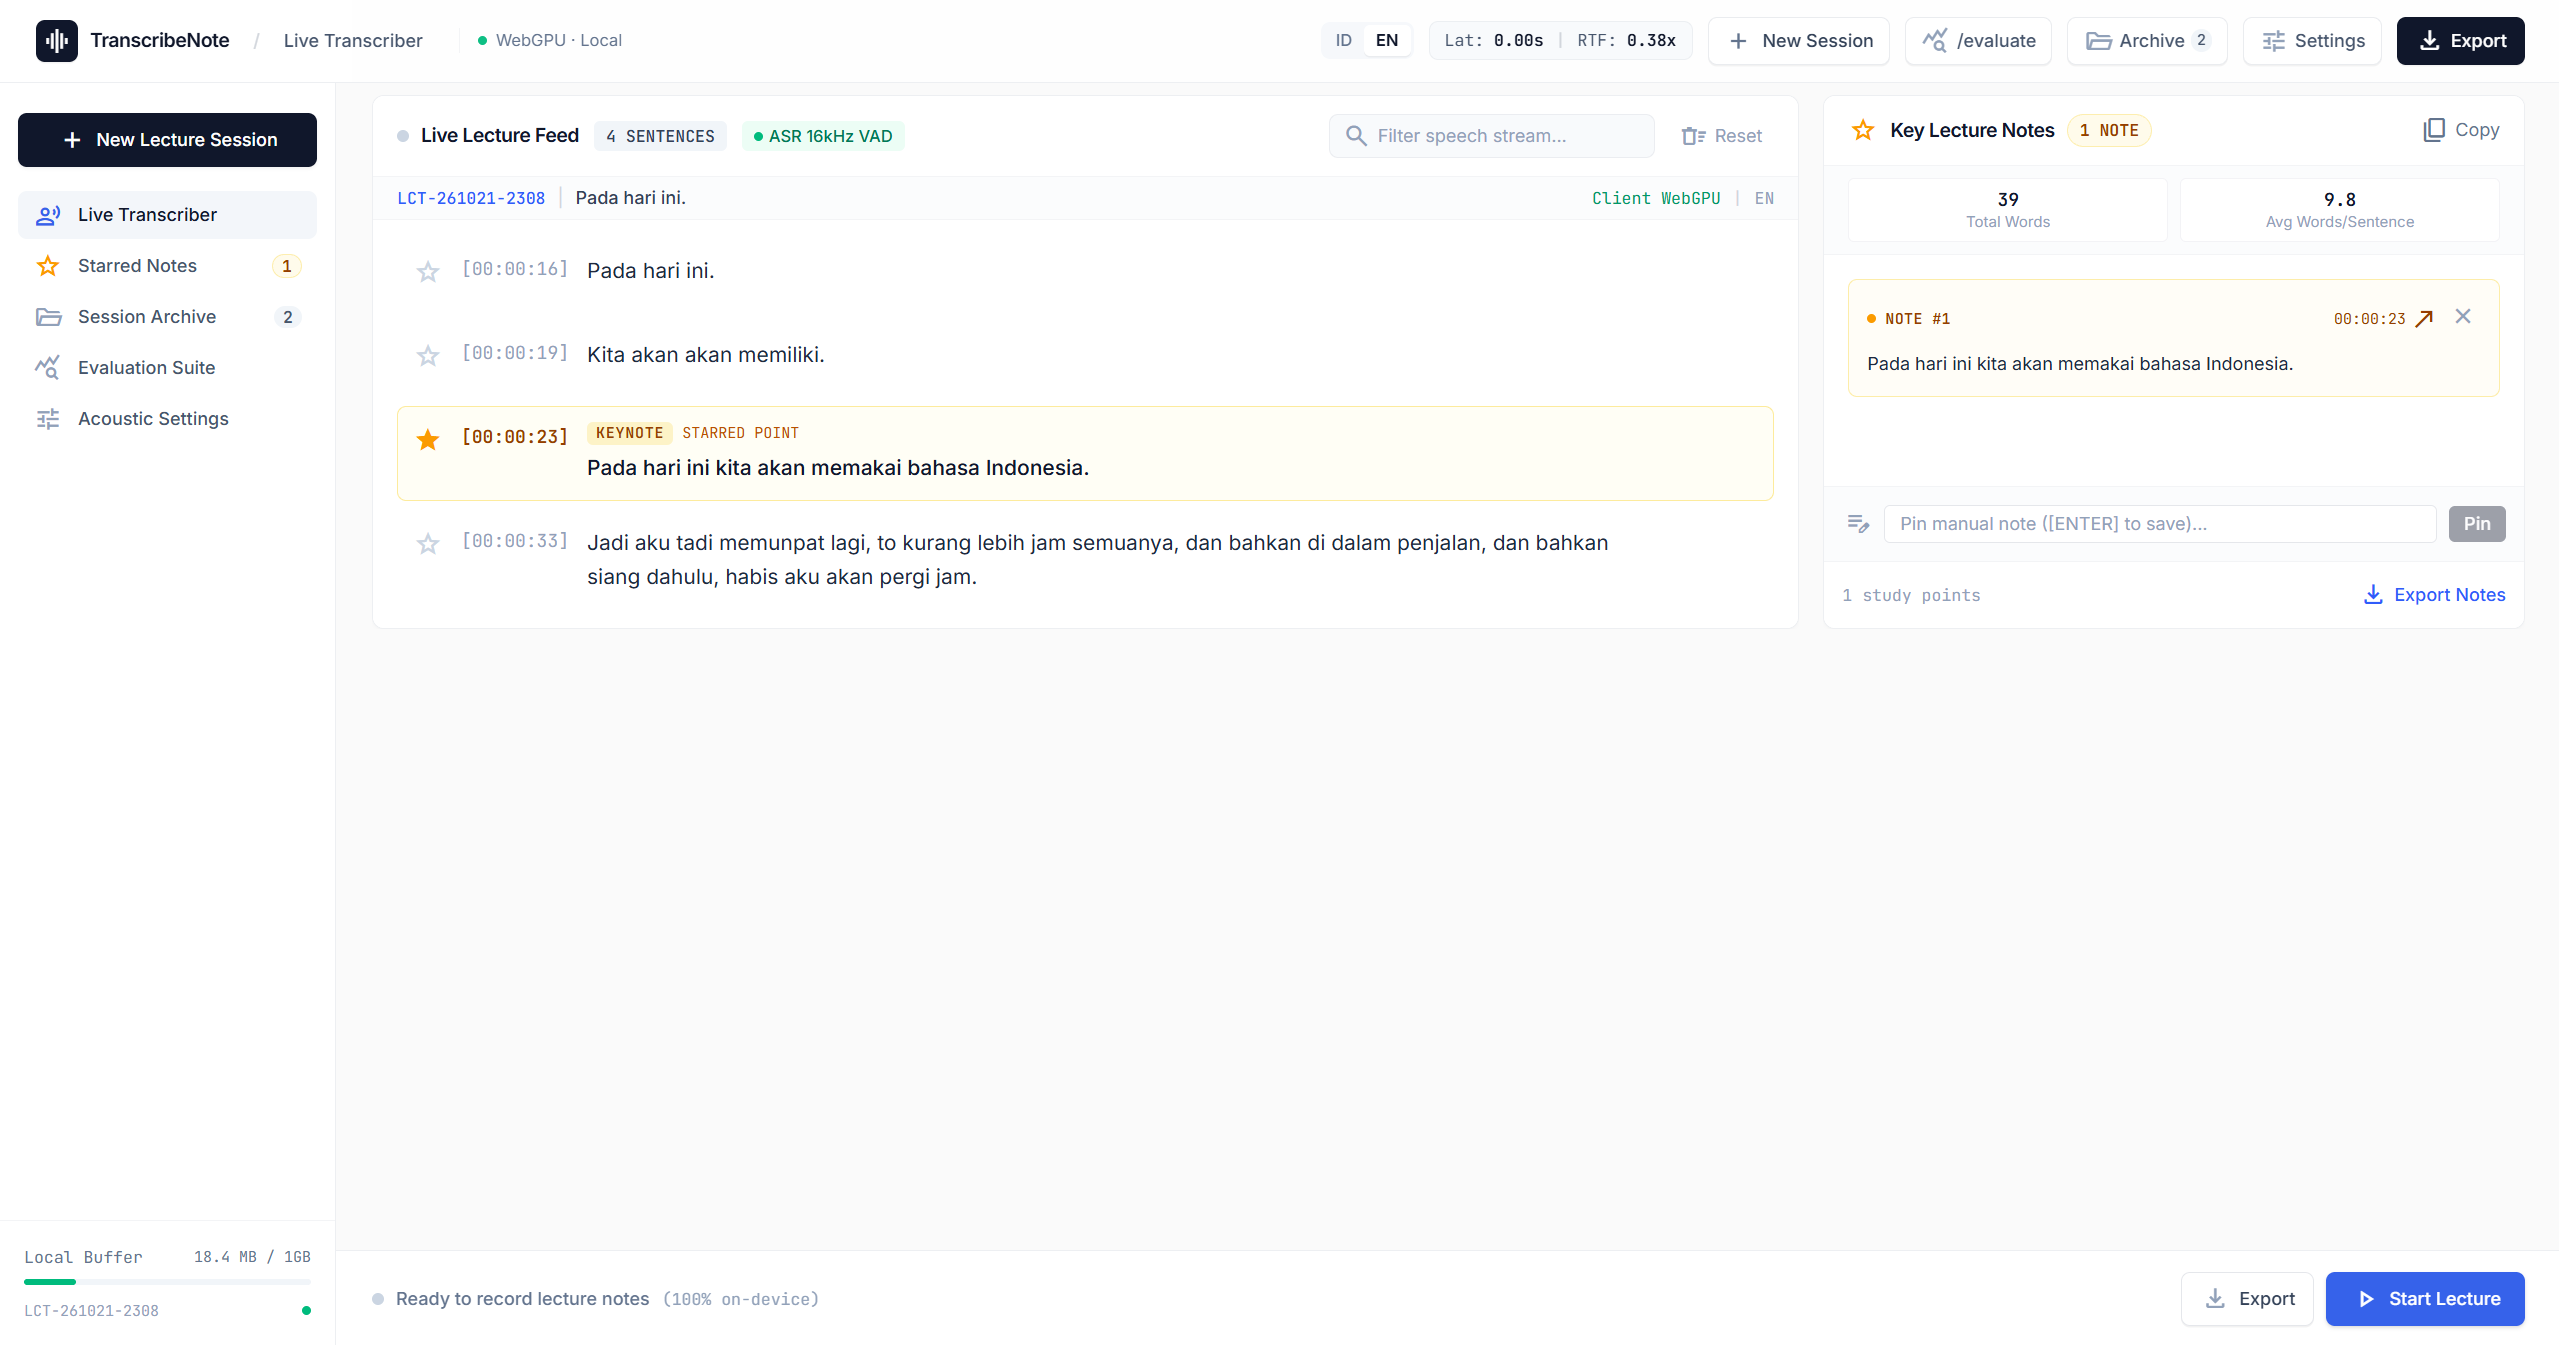
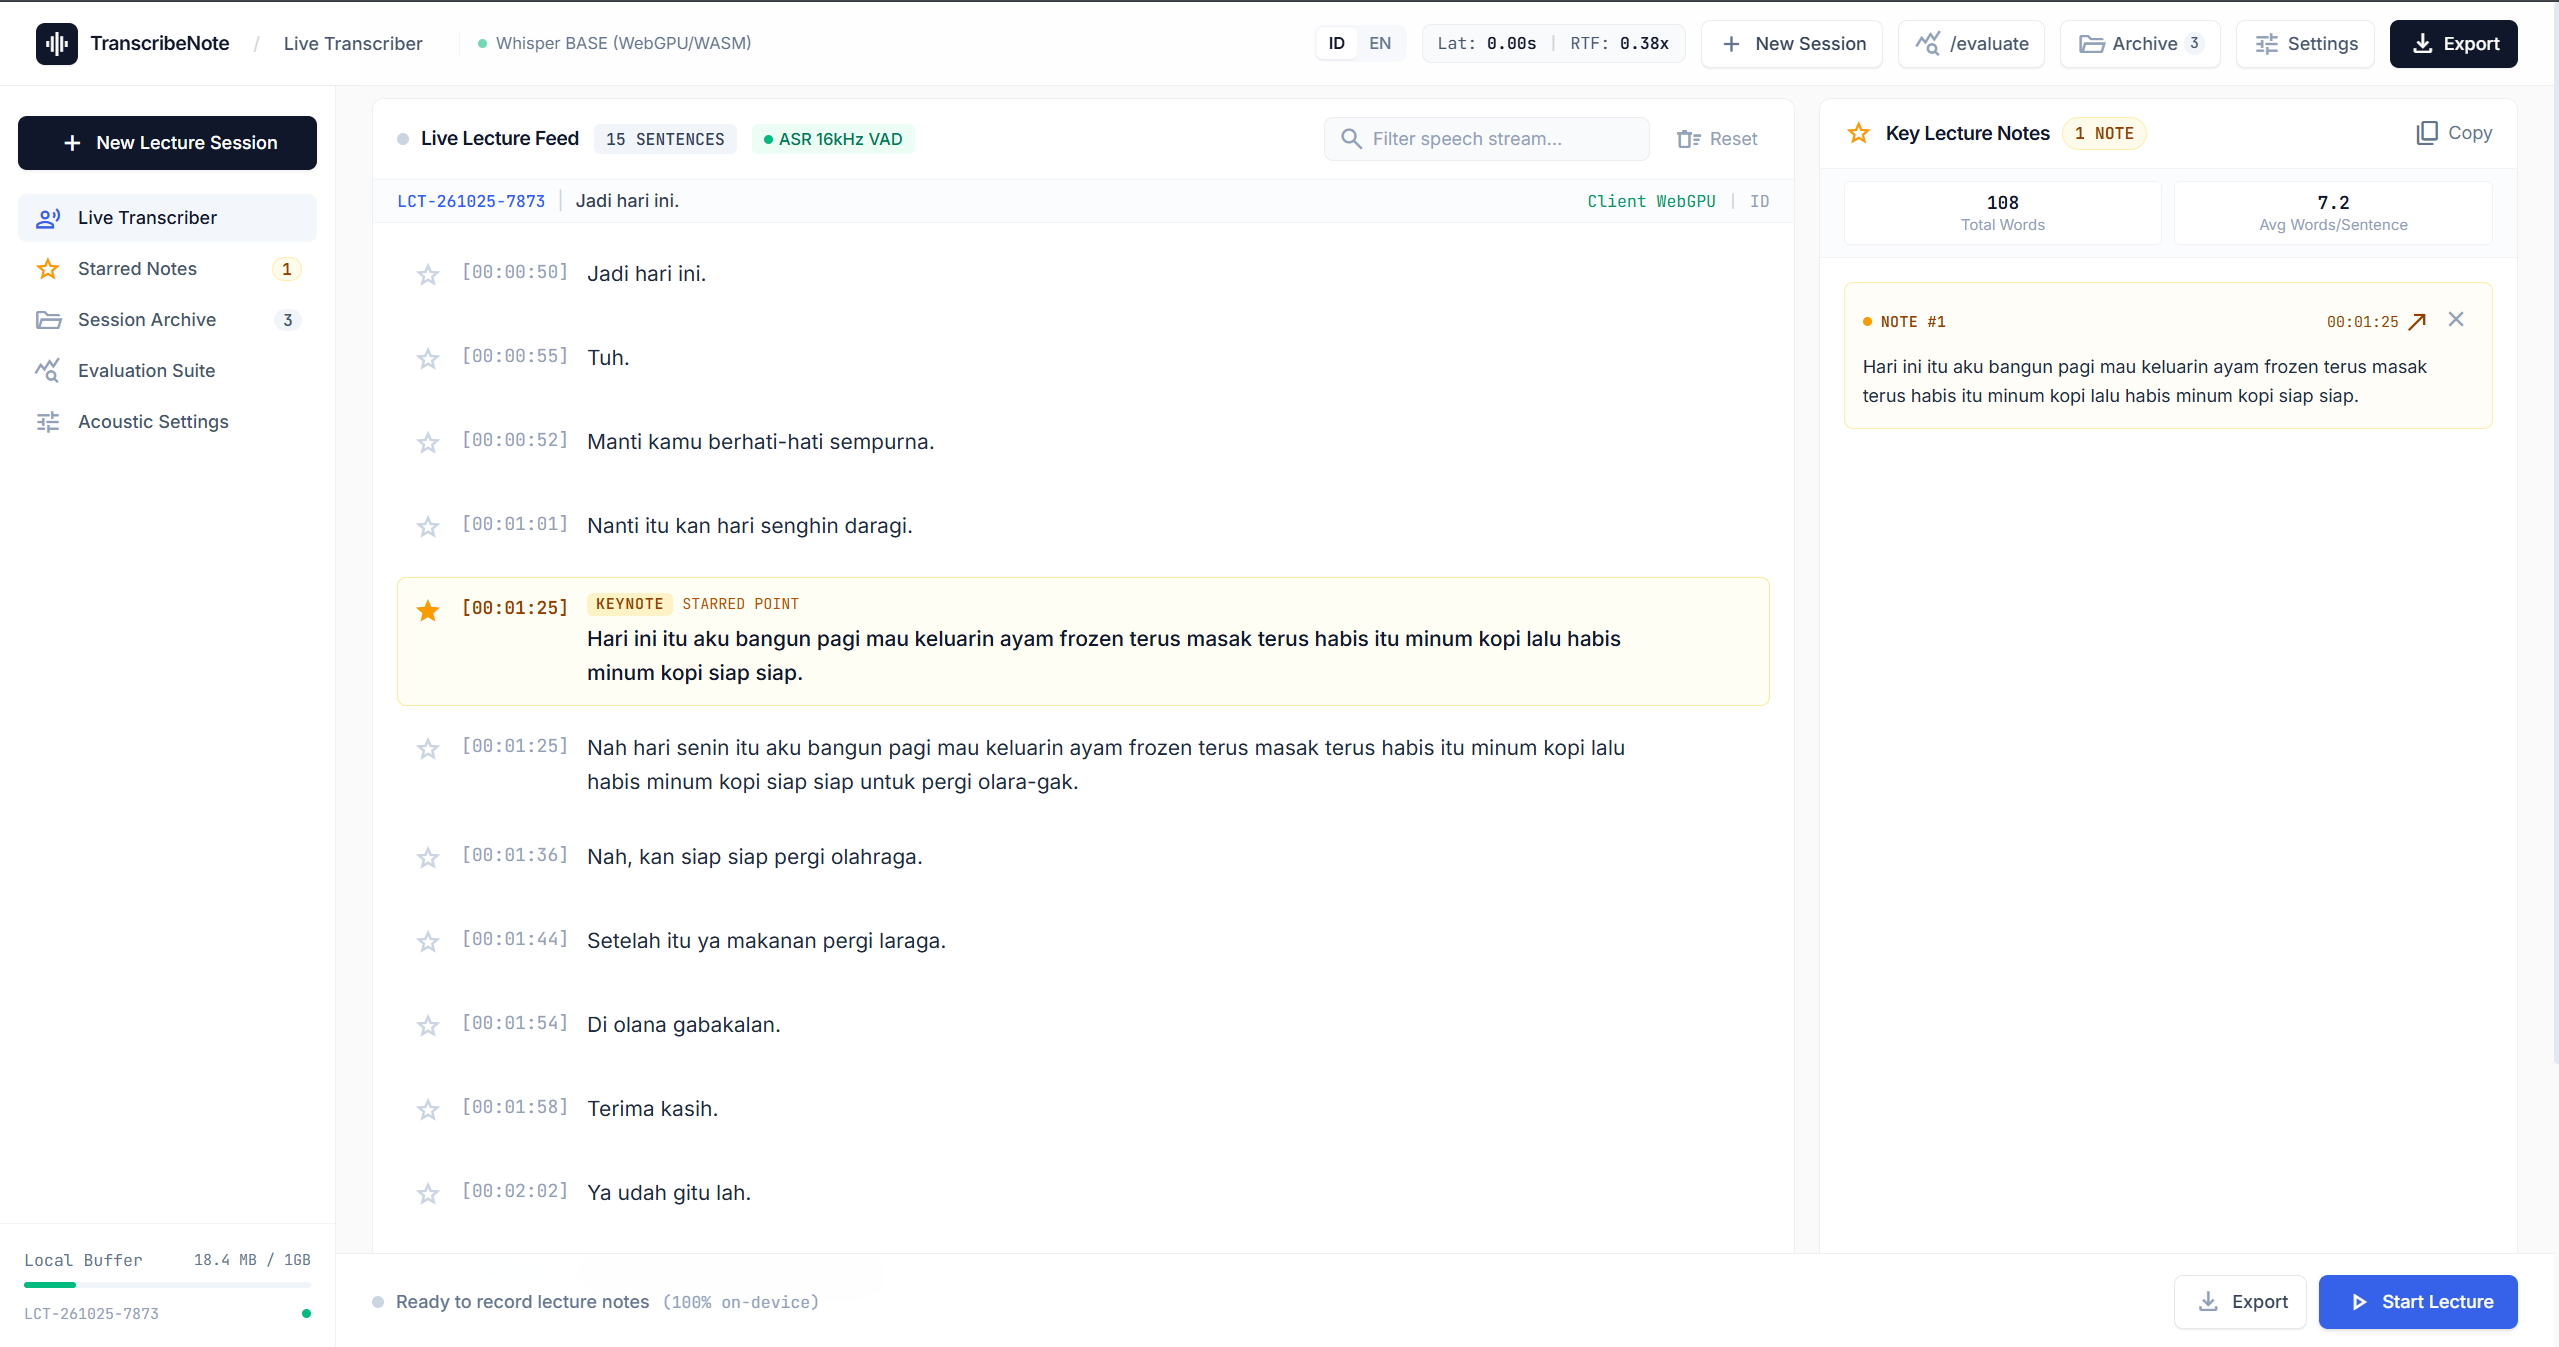
feat: update transcribenote image, remove direct project links, unlink esp32, remove license/footer copyright

diff --git a/src/Portfolio.jsx b/src/Portfolio.jsx
@@ -143,12 +143,6 @@ const SKILL_GROUPS = [
     icon: BrainCircuit,
     path: "~/stack/ai-dl-signal",
     title: "AI, Deep Learning & Signal Processing",
-    targetProject: "project-gesture-hud",
-    targetProjectTitle: "Gesture HUD & TranscribeNote",
-    projectLinks: [
-      { id: "project-gesture-hud", label: "Touchless Gesture HUD (TCN / ONNX)" },
-      { id: "project-transcribenote", label: "TranscribeNote (Whisper / VAD)" },
-    ],
     items: [
       { name: "PyTorch", detail: "TCN, BiLSTM, ST-GCN", target: "project-gesture-hud" },
       { name: "ONNX Runtime", detail: "CPU / Web", target: "project-gesture-hud" },
@@ -168,11 +162,6 @@ const SKILL_GROUPS = [
     icon: Server,
     path: "~/stack/web-backend",
     title: "Web & Backend Engineering",
-    targetProject: "project-transcribenote",
-    targetProjectTitle: "TranscribeNote Web App",
-    projectLinks: [
-      { id: "project-transcribenote", label: "TranscribeNote (WebGPU, FastAPI, React 19)" },
-    ],
     items: [
       { name: "Python", detail: "FastAPI, Flask, Streamlit", target: "project-gesture-hud" },
       { name: "TypeScript / React 19", target: "project-transcribenote" },
@@ -188,19 +177,13 @@ const SKILL_GROUPS = [
     icon: Wrench,
     path: "~/stack/devops-hw",
     title: "DevOps & Hardware",
-    targetProject: "project-stock-intel",
-    targetProjectTitle: "IDX Stock Intelligence",
-    projectLinks: [
-      { id: "project-stock-intel", label: "IDX Multi-Agent (GitHub Actions Crons)" },
-      { id: "project-gesture-hud", label: "Gesture HUD (Pytest Benchmarks)" },
-    ],
     items: [
       { name: "GitHub Actions", detail: "CI/CD & Serverless Crons", target: "project-stock-intel" },
       { name: "Pytest", target: "project-gesture-hud" },
       { name: "Vitest", target: "project-transcribenote" },
       { name: "Vercel", target: "project-transcribenote" },
       { name: "Git", target: "project-stock-intel" },
-      { name: "ESP32 / Arduino", detail: "I2S, MQTT", target: "project-gesture-hud" },
+      { name: "ESP32 / Arduino", detail: "I2S, MQTT" },
     ],
   },
 ];
@@ -239,7 +222,7 @@ const PROJECTS = [
         caption: "100% on-device speech transcription feed with 1-click keynote extraction",
       },
     ],
-    frameClass: "aspect-[1024/520]",
+    frameClass: "aspect-[2559/1347]",
     imgClass: "object-cover object-top",
   },
   {
@@ -1171,17 +1154,27 @@ function Projects({ onOpenLightbox }) {
  * ============================================================ */
 
 function SkillPill({ name, detail, target }) {
+  if (!target) {
+    return (
+      <span className="inline-flex items-center gap-2 rounded-full bg-[#f5f5f7] px-3.5 py-1.5 text-[13px] text-[#1d1d1f] border border-black/[0.04] cursor-default select-none">
+        <span className="h-1.5 w-1.5 rounded-full bg-[#7a7a7a] shrink-0" />
+        <span className="font-medium">{name}</span>
+        {detail && <span className="font-mono text-[11px] text-[#7a7a7a]">{detail}</span>}
+      </span>
+    );
+  }
+
   return (
     <button
       type="button"
-      onClick={() => target && scrollToSection(target)}
-      title={target ? `Jump to project implementing ${name}` : undefined}
+      onClick={() => scrollToSection(target)}
+      title={`Jump to project implementing ${name}`}
       className="group inline-flex items-center gap-2 rounded-full bg-[#f5f5f7] px-3.5 py-1.5 text-[13px] text-[#1d1d1f] transition-all duration-150 hover:bg-[#0066cc] hover:text-white active:scale-95 text-left border border-black/[0.04]"
     >
       <span className="h-1.5 w-1.5 rounded-full bg-[#0066cc] transition-colors group-hover:bg-white shrink-0" />
       <span className="font-medium">{name}</span>
       {detail && <span className="font-mono text-[11px] text-[#7a7a7a] group-hover:text-white/80">{detail}</span>}
-      {target && <ArrowUpRight className="h-3 w-3 text-[#7a7a7a] opacity-0 group-hover:opacity-100 group-hover:text-white transition-opacity" />}
+      <ArrowUpRight className="h-3 w-3 text-[#7a7a7a] opacity-0 group-hover:opacity-100 group-hover:text-white transition-opacity" />
     </button>
   );
 }
@@ -1200,12 +1193,12 @@ function Stack() {
             </h2>
           </div>
           <p className="max-w-[440px] text-[15px] leading-[1.5] text-[#7a7a7a]">
-            Click any skill or use the project jump links to inspect where each technology is implemented in real code.
+            Click any skill to directly scroll and inspect where each technology is implemented in real code.
           </p>
         </div>
 
         <div className="mt-12 grid gap-6 lg:grid-cols-3">
-          {SKILL_GROUPS.map(({ id, icon: Icon, path, title, items, projectLinks }) => (
+          {SKILL_GROUPS.map(({ id, icon: Icon, path, title, items }) => (
             <article
               key={id}
               id={`stack-${id}`}
@@ -1227,26 +1220,6 @@ function Stack() {
                     </li>
                   ))}
                 </ul>
-              </div>
-
-              {/* Direct Project Jump Links */}
-              <div className="mt-8 pt-5 border-t border-[#f0f0f0]">
-                <p className="font-mono text-[10.5px] uppercase tracking-wider text-[#7a7a7a] mb-2 font-semibold">
-                  Direct Project Links:
-                </p>
-                <div className="flex flex-col gap-1.5">
-                  {projectLinks.map((pl) => (
-                    <button
-                      key={pl.id}
-                      type="button"
-                      onClick={() => scrollToSection(pl.id)}
-                      className="inline-flex items-center justify-between w-full rounded-lg bg-[#f5f5f7] hover:bg-[#0066cc] hover:text-white px-3.5 py-2 text-[13px] font-medium text-[#1d1d1f] transition-all group/btn"
-                    >
-                      <span className="truncate">{pl.label}</span>
-                      <ArrowRight className="h-3.5 w-3.5 shrink-0 transition-transform group-hover/btn:translate-x-1" />
-                    </button>
-                  ))}
-                </div>
               </div>
             </article>
           ))}
@@ -1437,12 +1410,11 @@ function Footer() {
           </div>
         </div>
 
-        <div className="flex flex-col gap-4 pt-6 text-[12px] text-[#7a7a7a] sm:flex-row sm:items-center sm:justify-between">
-          <p>© {year} Gracias Kumara Winata. Apple Pro Editorial Architecture.</p>
+        <div className="flex items-center justify-end pt-6">
           <a
             id="footer-back-to-top"
             href="#top"
-            className="font-mono inline-flex items-center gap-1.5 text-[11px] uppercase tracking-[0.14em] font-medium transition-colors hover:text-[#0066cc]"
+            className="font-mono inline-flex items-center gap-1.5 text-[11px] uppercase tracking-[0.14em] font-medium text-[#7a7a7a] transition-colors hover:text-[#0066cc]"
           >
             <ArrowUp className="h-3.5 w-3.5" /> Back to top
           </a>

diff --git a/README.md b/README.md
@@ -63,9 +63,3 @@ npm run build
 # Preview production build locally
 npm run preview
 ```
-
----
-
-## License
-
-MIT (c) [Gracias Kumara Winata](https://github.com/Gracias-48)
